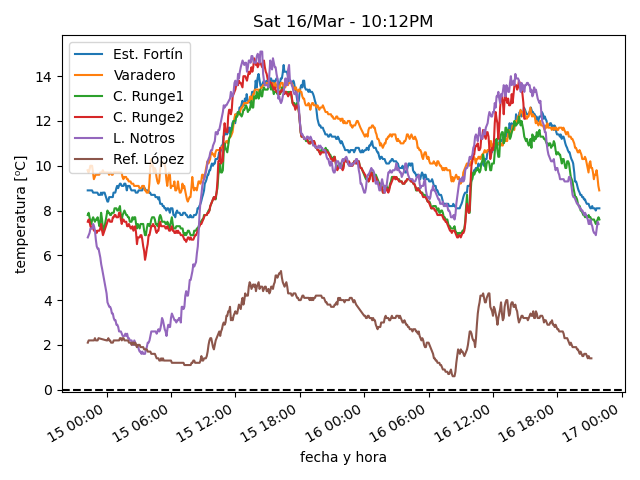
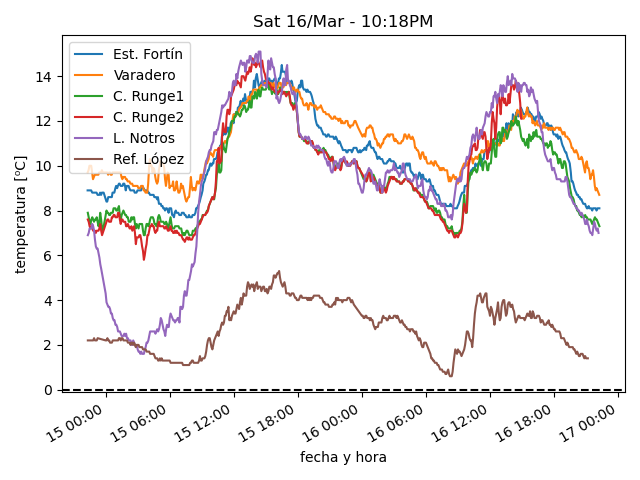
actualiza datos

diff --git a/estaciones/estacion2.html b/estaciones/estacion2.html
@@ -18,22 +18,22 @@
     </tr>
     <tr>
      <td class="stats_data">
-      9:54PM
+      10:14PM
      </td>
     </tr>
     <tr>
      <td class="stats_data">
-      8.9
+      8.7
      </td>
     </tr>
     <tr>
      <td class="stats_data">
-      3.3
+      2.5
      </td>
     </tr>
     <tr>
      <td class="stats_data">
-      67.5
+      64.8
      </td>
     </tr>
     <tr>
@@ -43,7 +43,7 @@
     </tr>
     <tr>
      <td class="stats_data">
-      6.4/9.3 WNW
+      5.5/8.9 WNW
      </td>
     </tr>
     <tr>

diff --git a/estaciones/estacion3.html b/estaciones/estacion3.html
@@ -18,22 +18,22 @@
     </tr>
     <tr>
      <td class="stats_data">
-      9:54PM
+      10:14PM
      </td>
     </tr>
     <tr>
      <td class="stats_data">
-      7.6
+      7.3
      </td>
     </tr>
     <tr>
      <td class="stats_data">
-      2.2
+      1.7
      </td>
     </tr>
     <tr>
      <td class="stats_data">
-      68.6
+      67.9
      </td>
     </tr>
     <tr>
@@ -43,7 +43,7 @@
     </tr>
     <tr>
      <td class="stats_data">
-      5.8/8.0 SW
+      6.0/8.4 WSW
      </td>
     </tr>
     <tr>

diff --git a/estaciones/estacion1.html b/estaciones/estacion1.html
@@ -18,7 +18,7 @@
     </tr>
     <tr>
      <td class="stats_data">
-      9:54PM
+      10:14PM
      </td>
     </tr>
     <tr>
@@ -28,12 +28,12 @@
     </tr>
     <tr>
      <td class="stats_data">
-      1.2
+      1.0
      </td>
     </tr>
     <tr>
      <td class="stats_data">
-      61.7
+      61.0
      </td>
     </tr>
     <tr>
@@ -43,7 +43,7 @@
     </tr>
     <tr>
      <td class="stats_data">
-      10.6/18.2 WSW
+      11.8/25.2 W
      </td>
     </tr>
     <tr>

diff --git a/estaciones/estacion5.html b/estaciones/estacion5.html
@@ -18,17 +18,17 @@
     </tr>
     <tr>
      <td class="stats_data">
-      9:50PM
+      10:10PM
      </td>
     </tr>
     <tr>
      <td class="stats_data">
-      7.4
+      7.0
      </td>
     </tr>
     <tr>
      <td class="stats_data">
-      2.3
+      1.8
      </td>
     </tr>
     <tr>
@@ -38,7 +38,7 @@
     </tr>
     <tr>
      <td class="stats_data">
-      1018.05
+      1018.22
      </td>
     </tr>
     <tr>
